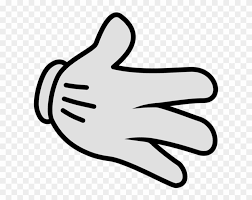
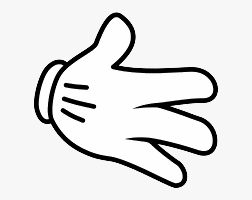
Update images files, added activated images

Changed region(s): [[0.1389, 0.06, 0.8889, 0.93], [0.2222, 0.27, 0.25, 0.3]]

diff --git a/rockpaperscissors/rps.py b/rockpaperscissors/rps.py
@@ -65,13 +65,13 @@ def make_choice(choice):
     # Disable all buttons
     for button in rock_button, paper_button, scissors_button:
         button.configure(state=tk.DISABLED)
-    # FIXME add the images
-    # if choice == "rock":
-    #     rock_button.configure(image="")
-    # elif choice == "paper":
-    #     paper_button.configure(image="")
-    # elif choice == "scissors":
-    #     scissors_button.configure(image="")
+
+    if choice == "rock":
+        rock_button.configure(image="activated_rock.png")
+    elif choice == "paper":
+        paper_button.configure(image="activated_paper.png")
+    elif choice == "scissors":
+        scissors_button.configure(image="activated_scissors.png")
     compare_choices(choice)
 
 
